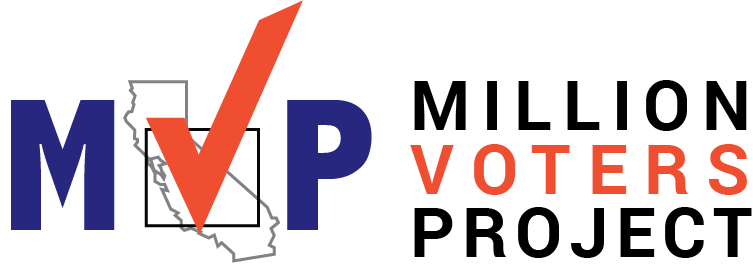
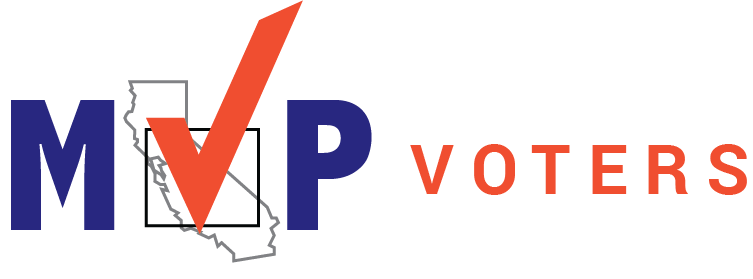
million voters / presente

Changed region(s): [[0.5498, 0.2867, 1.0, 0.4875], [0.5498, 0.7455, 1.0, 0.9462]]

diff --git a/app/_includes/partners/millionvoters.html b/app/_includes/partners/millionvoters.html
@@ -1,0 +1,6 @@
+<div class="powered-by">
+  <strong></strong>
+  <img src="/images/logo.svg">
+</div>
+<img src="/images/partners/millionvoters.png" class="logo partner">
+<img src="/images/partners/presente.png" class="logo partner">

diff --git a/app/_partners/millionvoters.md b/app/_partners/millionvoters.md
@@ -1,7 +1,6 @@
 ---
 partner: millionvoters
 partner_link: https://millionvotersproject.org
-partner_image: /images/partners/millionvoters.png
 partner_keyword: MILLIONVOTERS
 title: The Million Voters Project
 locale: en
